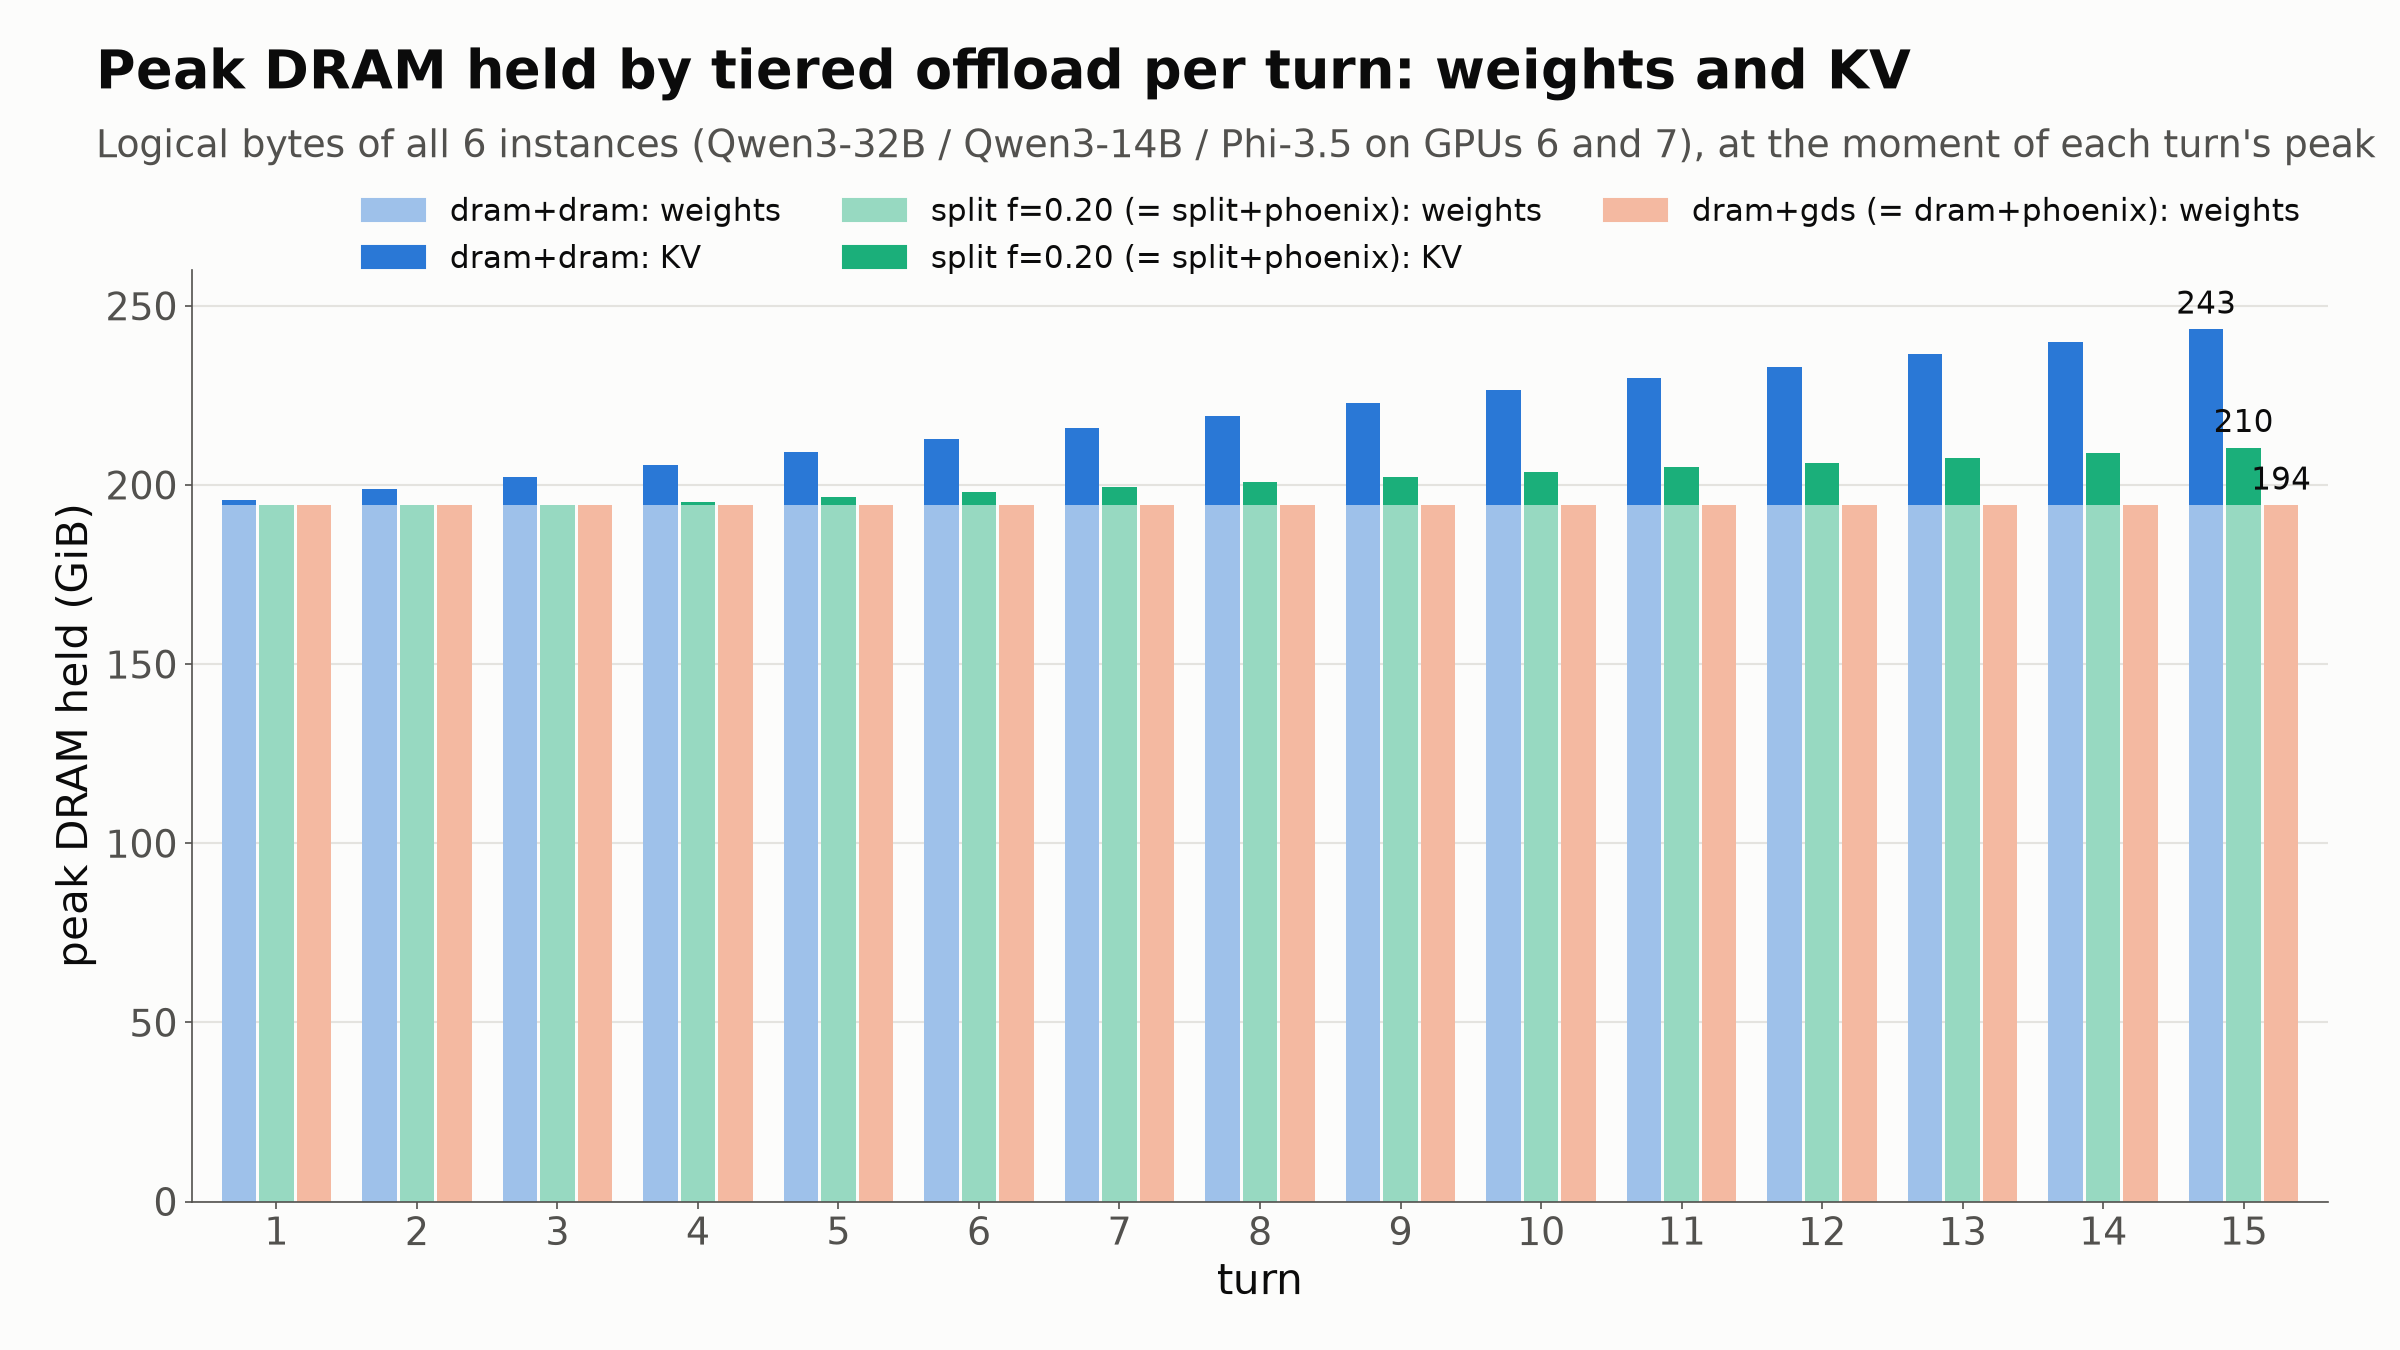
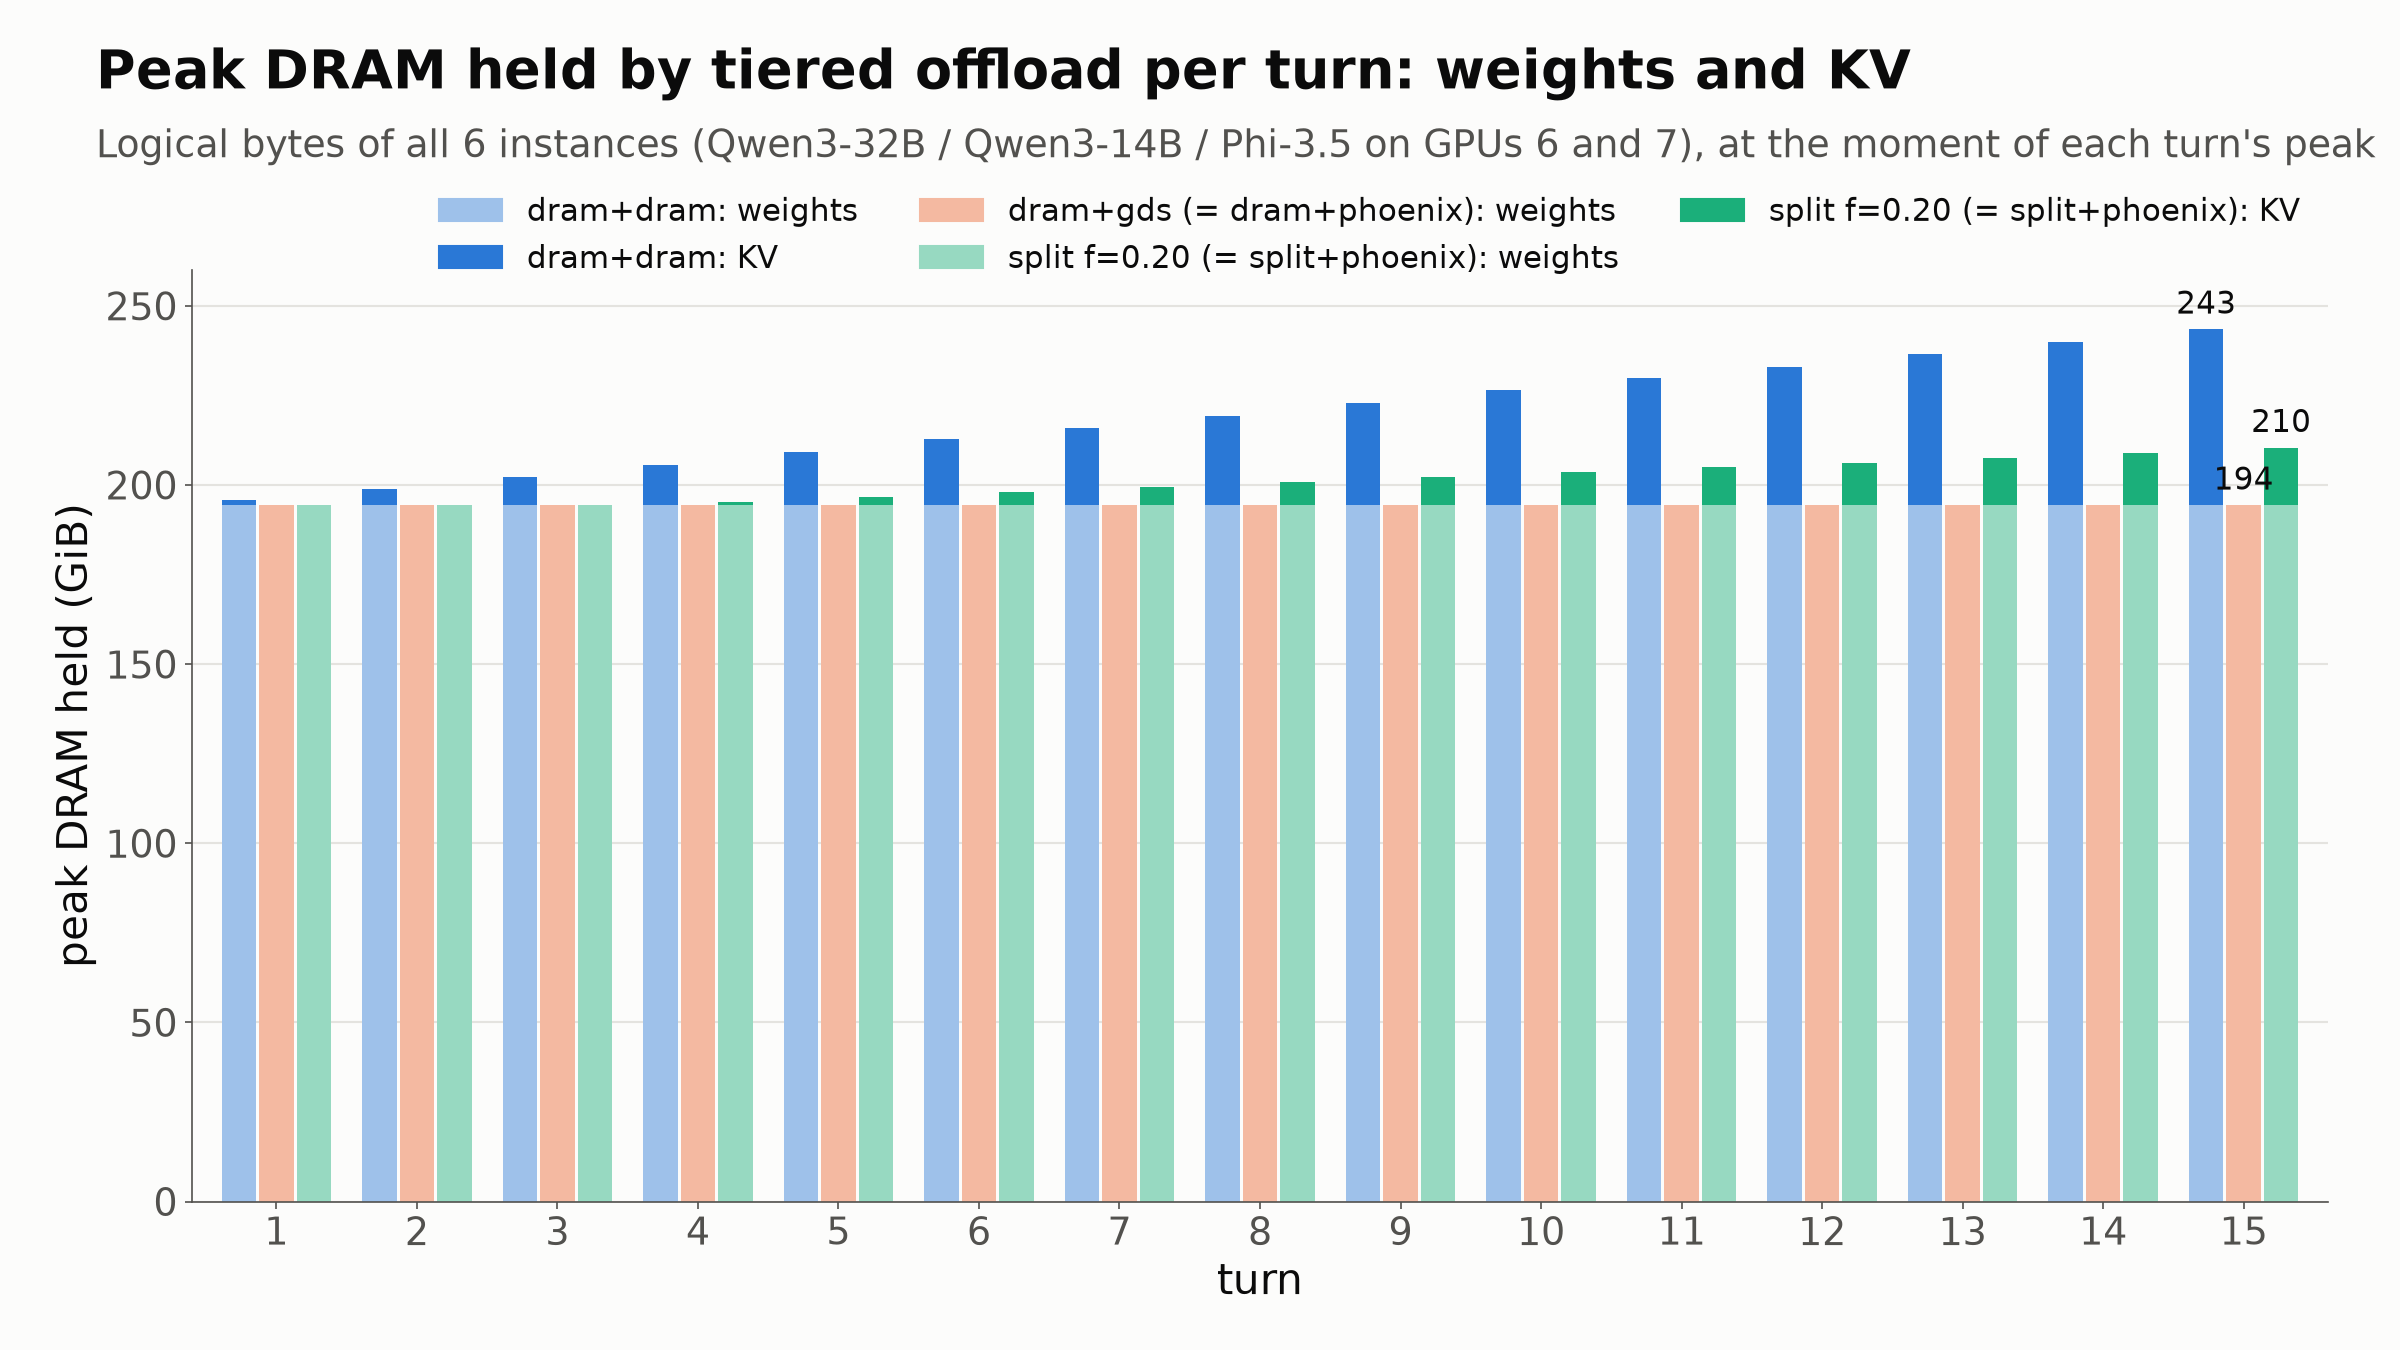
DRAM figures: order paths dram+dram, dram+gds, split
Both dram_timeline.png (panels, top to bottom) and dram_peak_by_turn.png (bars within
each turn) now show dram+dram, dram+gds, split f=0.20 in that order.

diff --git a/analysis/plot_dual_dram.py b/analysis/plot_dual_dram.py
@@ -13,7 +13,7 @@ so their per-turn peaks are identical and they are not drawn.
 
 Output: results/comparison/slides_dual3m_g67/dram_peak_by_turn.png
 usage: python analysis/plot_dual_dram.py [run_dir ...]
-       (default: dual3m_g67 dram+dram, split f=0.20, dram+gds)
+       (default: dual3m_g67 dram+dram, dram+gds, split f=0.20)
 """
 
 import csv
@@ -31,11 +31,11 @@ from matplotlib.patches import Patch
 
 ROOT = os.path.join(os.path.dirname(os.path.abspath(__file__)), "..")
 OUT = os.path.join(ROOT, "results", "comparison", "slides_dual3m_g67")
-DEFAULT = ["dual3m_g67_dram+dram", "dual3m_g67_split_f0.20", "dual3m_g67_dram+gds"]
+DEFAULT = ["dual3m_g67_dram+dram", "dual3m_g67_dram+gds", "dual3m_g67_split_f0.20"]
 STYLE = {  # path: (label, color)
     "dram+dram": ("dram+dram", "#2a78d6"),
-    "split": ("split f=0.20 (= split+phoenix)", "#1baf7a"),
     "dram+gds": ("dram+gds (= dram+phoenix)", "#eb6834"),
+    "split": ("split f=0.20 (= split+phoenix)", "#1baf7a"),
 }
 
 INK, INK2, GRID, SURFACE = "#0b0b0b", "#52514e", "#e4e3df", "#fcfcfb"

diff --git a/analysis/plot_dual_dram_timeline.py b/analysis/plot_dual_dram_timeline.py
@@ -12,7 +12,7 @@ Each panel title gives the peak and the time-weighted mean of weights + KV.
 
 Output: results/comparison/slides_dual3m_g67/dram_timeline.png
 usage: python analysis/plot_dual_dram_timeline.py [run_dir ...]
-       (default: dual3m_g67 dram+dram, split f=0.20, dram+gds)
+       (default: dual3m_g67 dram+dram, dram+gds, split f=0.20)
 """
 
 import csv
@@ -30,7 +30,7 @@ from matplotlib.patches import Patch
 
 ROOT = os.path.join(os.path.dirname(os.path.abspath(__file__)), "..")
 OUT = os.path.join(ROOT, "results", "comparison", "slides_dual3m_g67")
-DEFAULT = ["dual3m_g67_dram+dram", "dual3m_g67_split_f0.20", "dual3m_g67_dram+gds"]
+DEFAULT = ["dual3m_g67_dram+dram", "dual3m_g67_dram+gds", "dual3m_g67_split_f0.20"]
 STYLE = {  # path: (label, color)
     "dram+dram": ("dram+dram", "#2a78d6"),
     "split": ("split f=0.20 (= split+phoenix)", "#1baf7a"),
